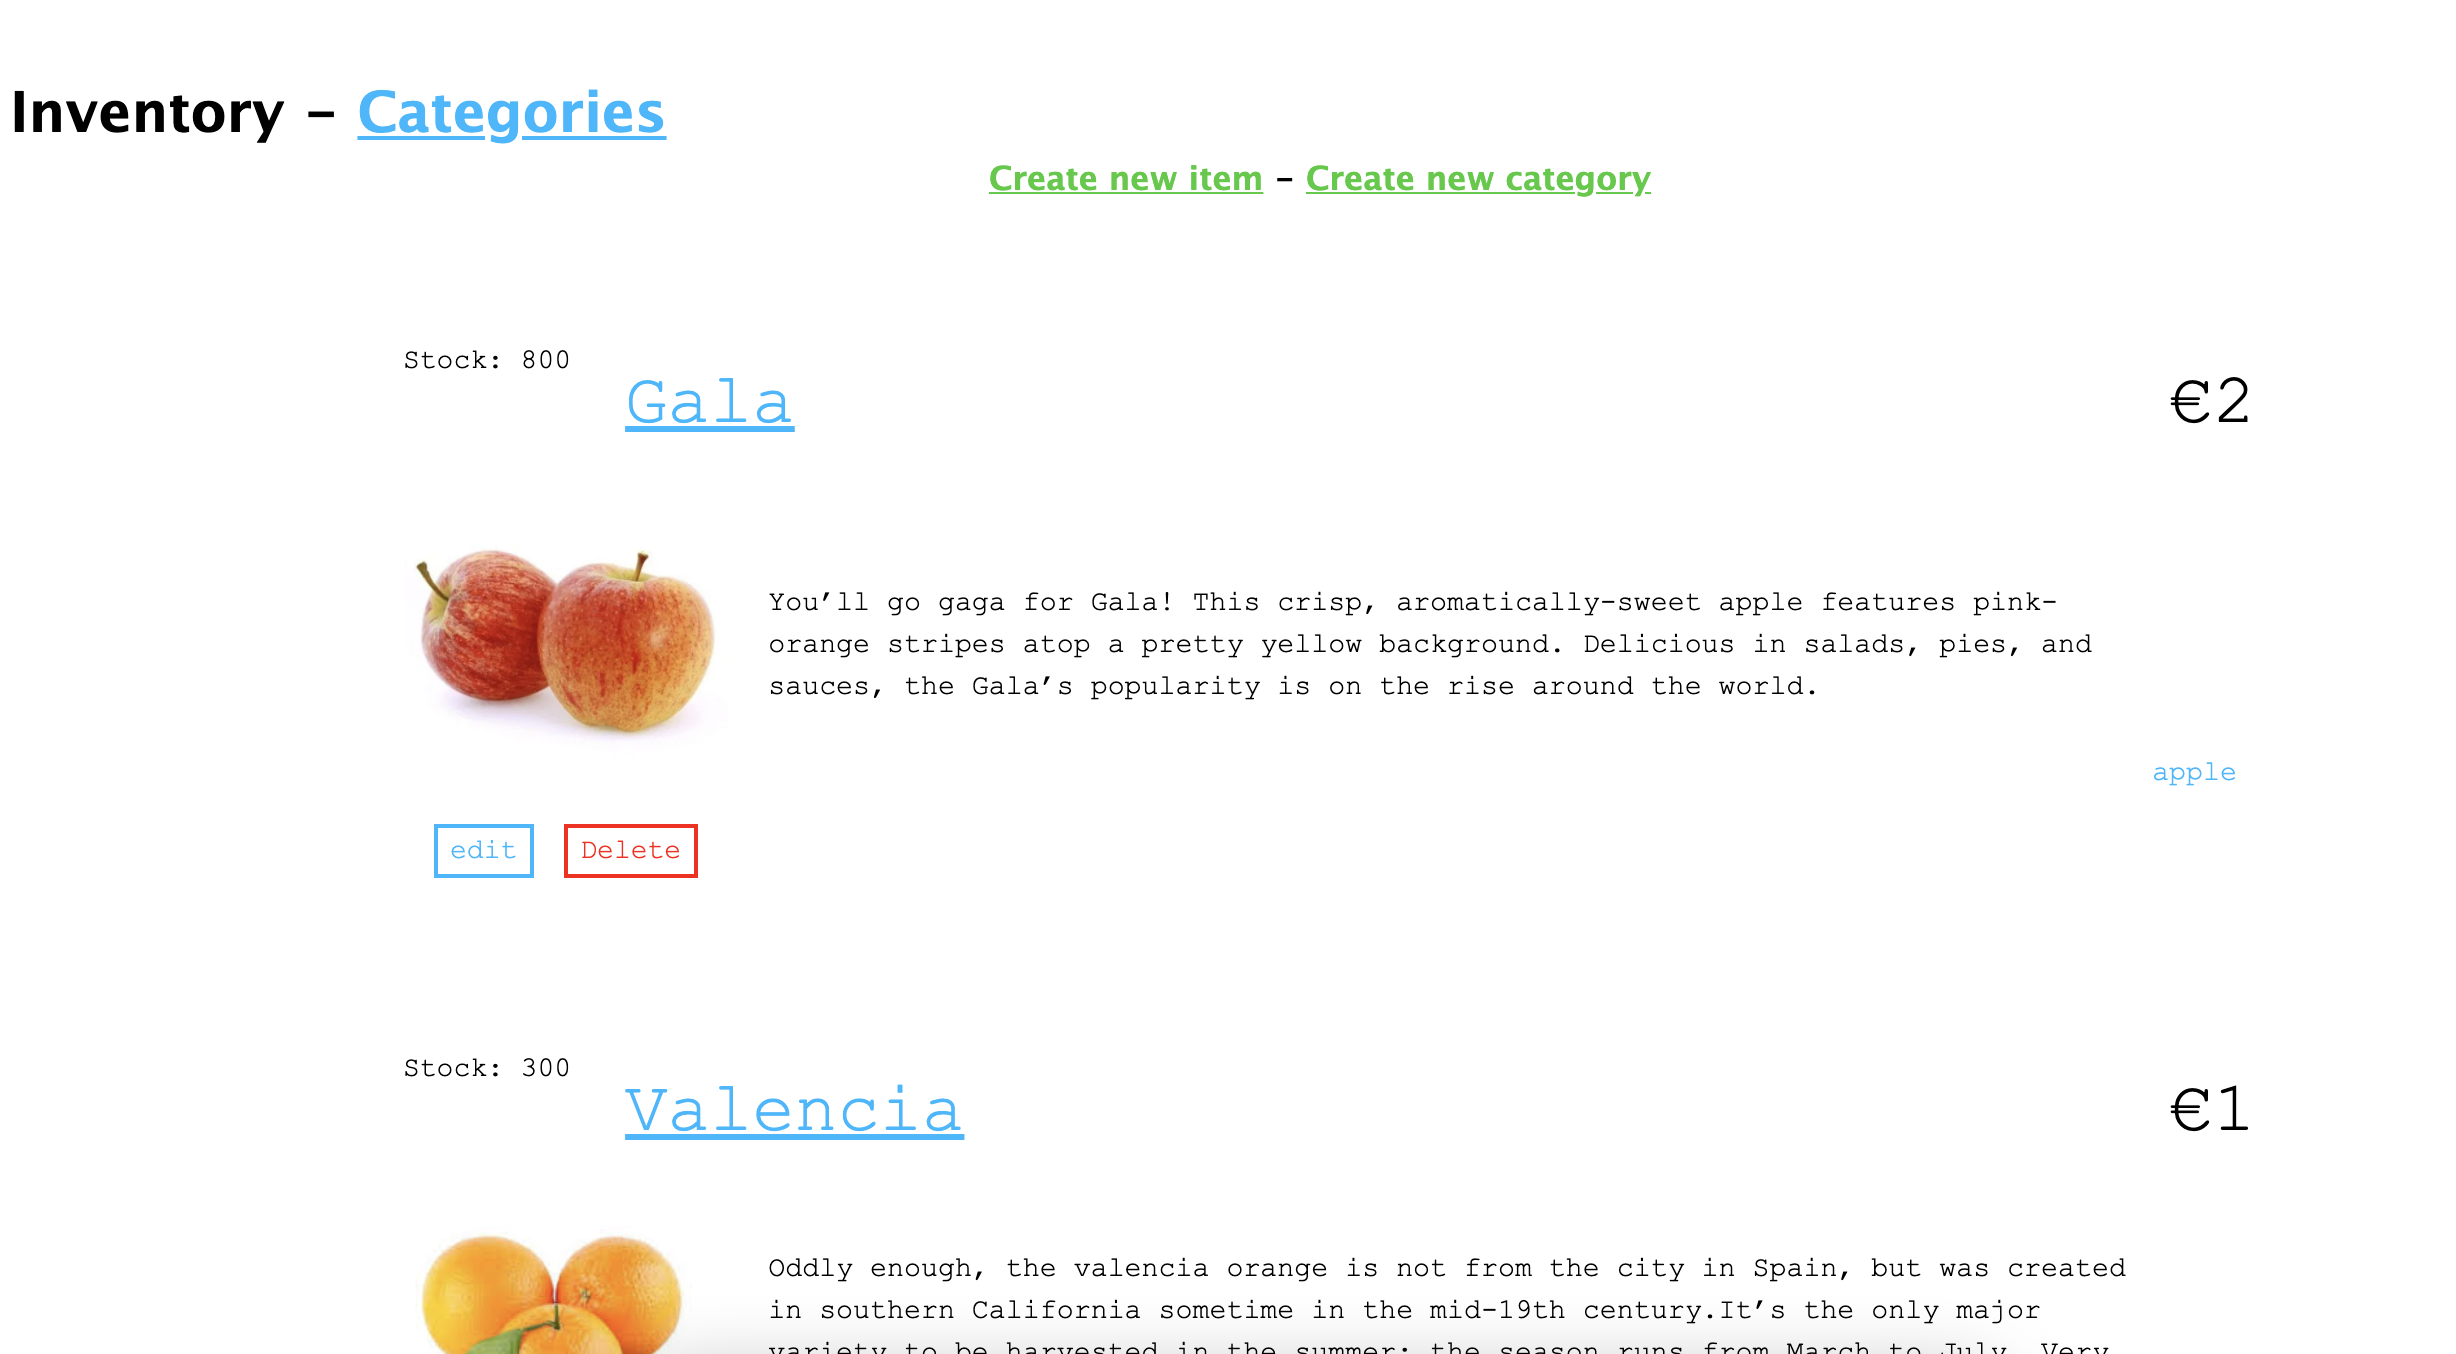
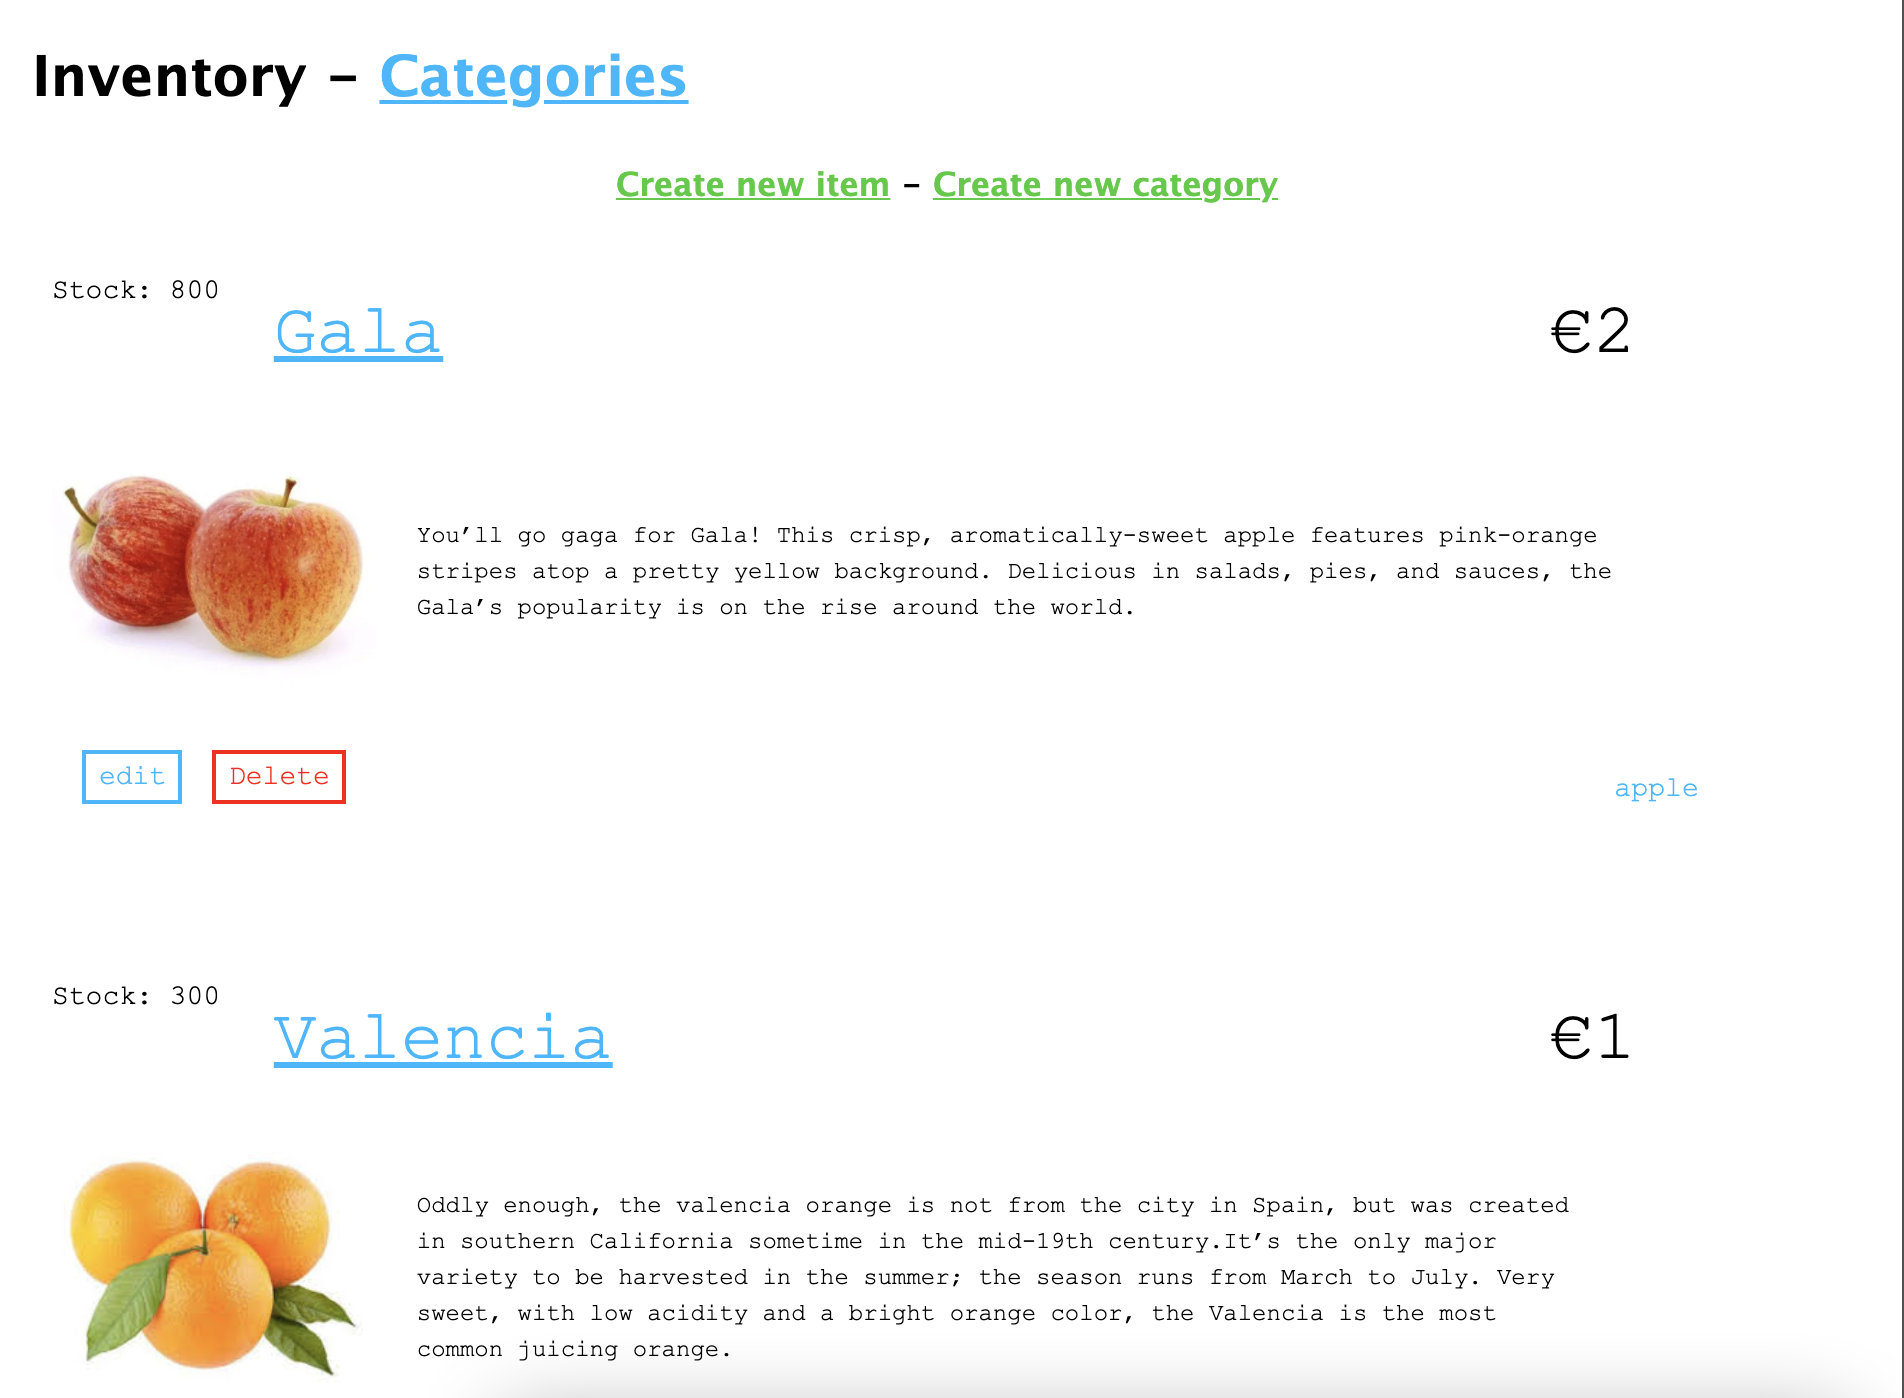
got better images for fruit-shop and battleships

diff --git a/index.html b/index.html
@@ -237,6 +237,8 @@
                 This project was fun to build, although getting the image coordinates to align with the game image when/if it was resized was a headache.
                 <br>
                 Getting to see how a cloud storage platform like Google Firebase interacts with a Front-end framework like Vue was interesting.
+                <br><br>
+                <b>*This app has not yet been optimised for mobile</b>
                 <br><br><br>
                 <div class="project-links">
                     <button class="git-link">
@@ -301,6 +303,8 @@
                     Made with Vue and a lot of Vanilla Javascript, this was one of my earliest Front-end projects. As a result I made a ton of mistakes. It's good to look back and see the improvements I can make now. Bringing this app up to scratch is definetly on my TODO list, and the first item would be making the computer (Player 2) smarter.
                     <br><br>
                     <i> - Player 2 selects randomly, and so it never wins :(</i>
+                    <br><br>
+                    <b>*This app has not yet been optimised for mobile</b>
                     <br><br><br>
 
                 <div class="project-links">
